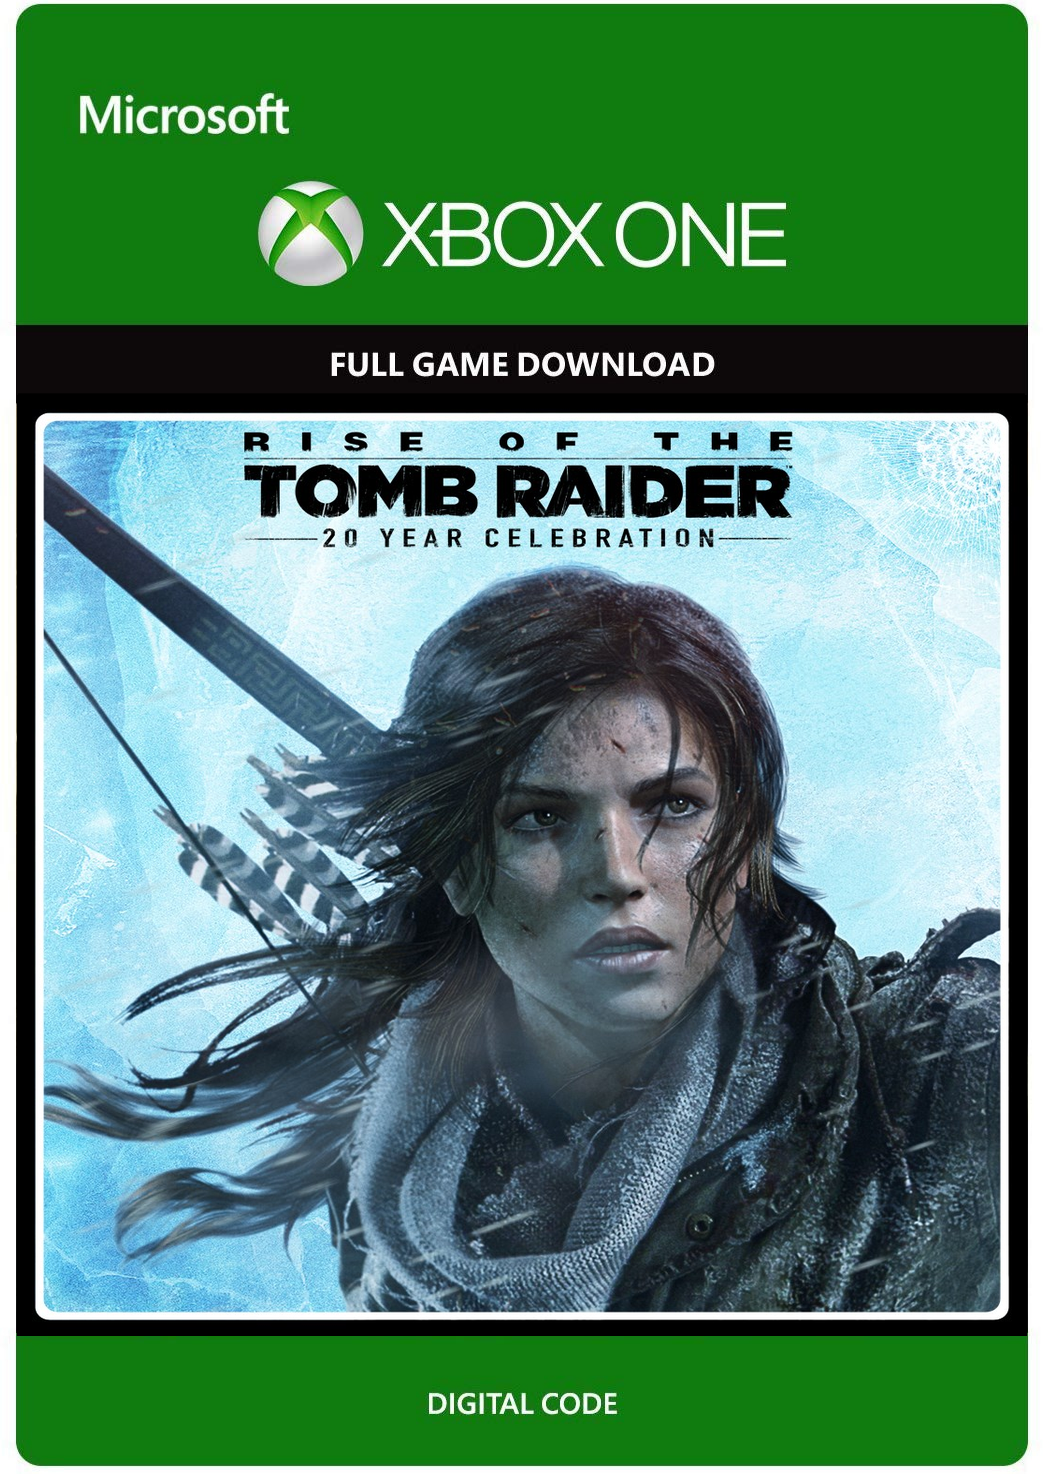
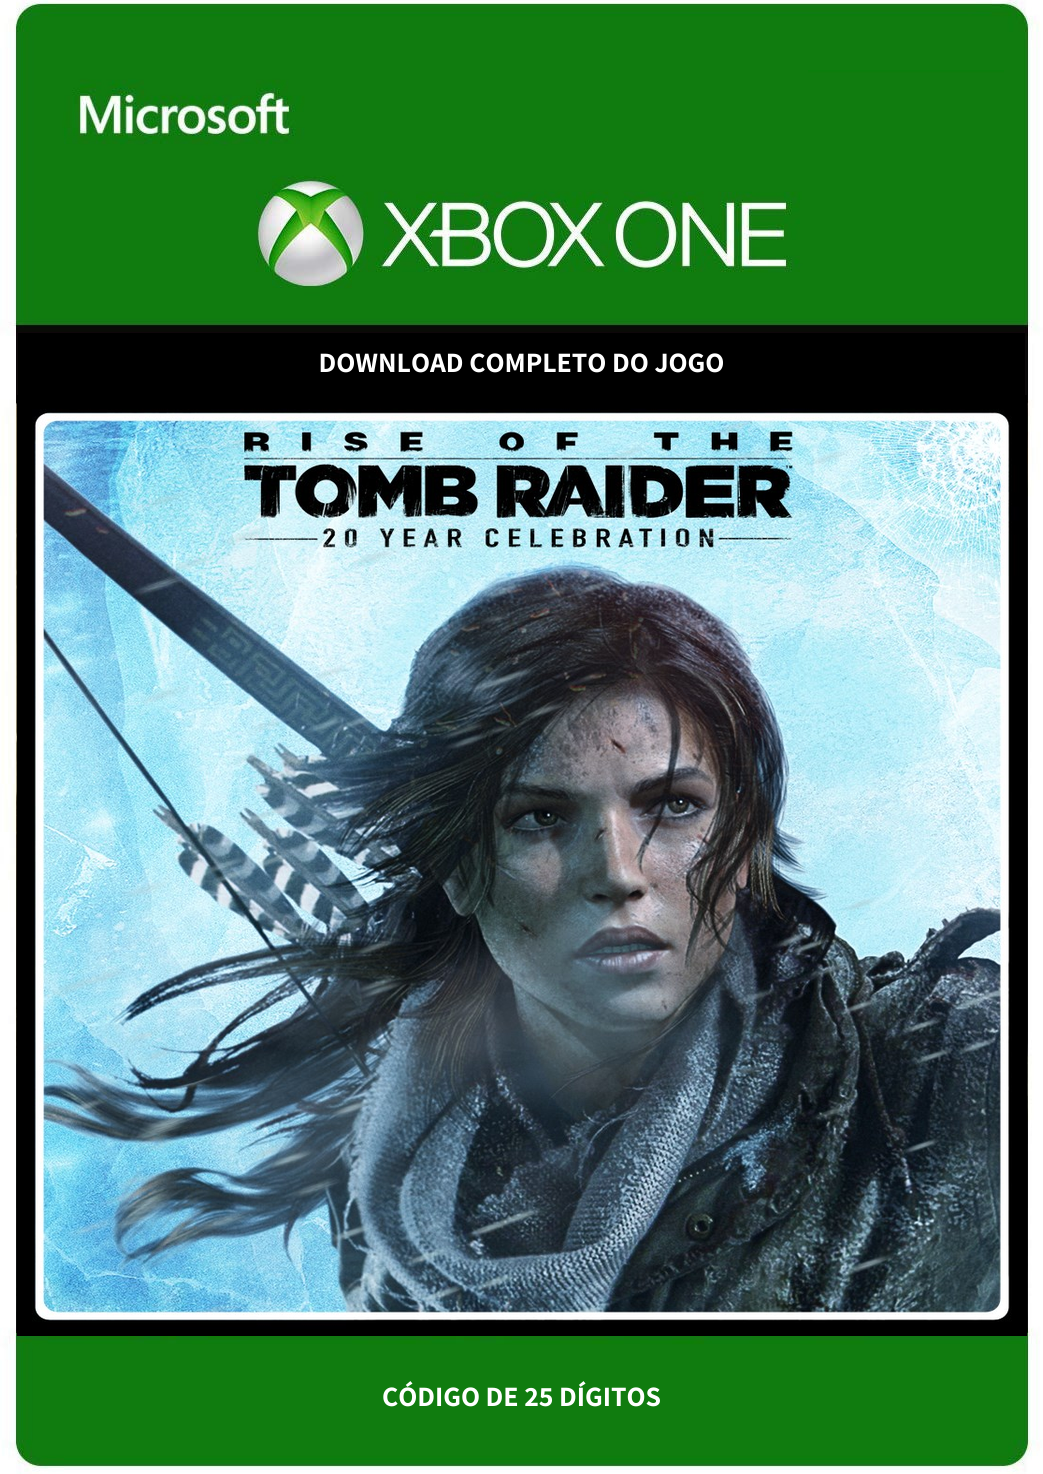
anuncio de jogo criado C4S60FPWF4XN

Changed region(s): [[0.3068, 0.2185, 0.7057, 0.2809], [0.3682, 0.9362, 0.6443, 0.9674]]

diff --git a/description/C4S60FPWF4XN.html b/description/C4S60FPWF4XN.html
@@ -1,17 +1,66 @@
 <p style="font-family: 'Poppins', sans-serif; font-size: 1rem; color:gray">
-    Rise of the Tomb Raider Aniversário De 20 Anos (Mídia Digital) Xbox One<br>
-    Publicado por :Microsoft<br>
-    Desenvolvido por :Crystal Dynamics<br>
-    Data de lançamento :11/10/2016<br>
-    Tamanho aproximado :61,03 GB<br>
-    Classificação etária :Para maiores de 16 anos<br>
-    Categoria :Ação e aventura<br>
-    <br>
-    Rise of the Tomb Raider: 20 Year Celebration inclui o aclamado Rise of the Tomb Raider, indicado para mais de 100 prêmios. Lara Croft é mais do que uma sobrevivente em sua primeira expedição como caçadora de tumbas, rumo às remotas regiões da Sibéria, em busca do segredo da imortalidade. <br>
-    <br>
-    Jogadores de Xbox One X podem escolher entre três modos visuais, incluindo 4K nativo para maior fidelidade de resolução, efeitos visuais melhorados para belíssimos aprimoramentos gráficos e alta taxa de quadros para a jogabilidade mais suave possível.<br>
-    <br>
-    Aprimoramentos técnicos adicionais para Xbox One X incluem suporte a exibição HDR, para uma representação de cores mais vibrante e precisa, suporte para áudio espacial, incluindo Dolby Atmos® para um verdadeiro áudio 3D, resolução aprimorada de texturas e suavização de bordas aprimorada para detalhes ainda mais imersivos e realistas. Aprimoramentos visuais adicionais incluem luzes volumétricas e reflexos aprimorados, folhagem aprimorada, detalhes poligonais melhorados e filtro de texturas amplificado.<br>
-    <br>
-    Rise of the Tomb Raider: 20 Year Celebration inclui o novo conteúdo adicional "Laços de Sangue", novo suporte cooperativo para o modo Endurance, opção de dificuldade "Sobrevivente Implacável" para a campanha principal, traje e arma da edição 20 Year Celebration e 5 skins clássicas para Lara. Inclui também todos os conteúdos para baixar já lançados como Baba Yaga: O Templo da Bruxa, Modo de Resistência, Escuridão Fria Despertada, 12 roupas, 7 armas e 35 cartas de expedição. Com mais de 50 horas de jogo, testa é a versão mais completa da premiada experiência.<br>
+<iframe width="440" height="210" src="https://www.youtube.com/embed/t1bX-epXbRw" title="YouTube video player" frameborder="0" allow="accelerometer; autoplay; clipboard-write; encrypted-media; gyroscope; picture-in-picture" allowfullscreen></iframe>
+<br>
+Rise of the Tomb Raider - Edição de Aniversário - Xbox One
+<br>Publicado por : Microsoft
+<br>Desenvolvido por : Crystal Dynamics
+<br>Data de lançamento : 11/10/2016
+<br>Tamanho aproximado : 9,96 GB
+<br>Classificação etária : Para maiores de 16 anos
+<br>Categoria : Ação e aventura
+<br>Recursos: Cooperação online  (2), HDR10, 4K Ultra HD, Xbox One X Aprimorado
+
+<br>Rise of the Tomb Raider: 20 Year Celebration inclui o aclamado Rise of the Tomb Raider, indicado para mais de 100 prêmios. Lara Croft é mais do que uma sobrevivente em sua primeira expedição como caçadora de tumbas, rumo às remotas regiões da Sibéria, em busca do segredo da imortalidade.  
+ 
+Jogadores de Xbox One X podem escolher entre três modos visuais, incluindo 4K nativo para maior fidelidade de resolução, efeitos visuais melhorados para belíssimos aprimoramentos gráficos e alta taxa de quadros para a jogabilidade mais suave possível. 
+ 
+Aprimoramentos técnicos adicionais para Xbox One X incluem suporte a exibição HDR, para uma representação de cores mais vibrante e precisa, suporte para áudio espacial, incluindo Dolby Atmos® para um verdadeiro áudio 3D, resolução aprimorada de texturas e suavização de bordas aprimorada para detalhes ainda mais imersivos e realistas. Aprimoramentos visuais adicionais incluem luzes volumétricas e reflexos aprimorados, folhagem aprimorada, detalhes poligonais melhorados e filtro de texturas amplificado. 
+ 
+Rise of the Tomb Raider: 20 Year Celebration inclui o novo conteúdo adicional "Laços de Sangue", novo suporte cooperativo para o modo Endurance, opção de dificuldade "Sobrevivente Implacável" para a campanha principal, traje e arma da edição 20 Year Celebration e 5 skins clássicas para Lara. Inclui também todos os conteúdos para baixar já lançados como Baba Yaga: O Templo da Bruxa, Modo de Resistência, Escuridão Fria Despertada, 12 roupas, 7 armas e 35 cartas de expedição. Com mais de 50 horas de jogo, testa é a versão mais completa da premiada experiência.<br>
+<br>
+Fonte: Microsoft<br>
+<br>
+<br>
+INFORMAÇÕES SOBRE O PRODUTO<br>
+===============================================<br>
+- É um código de 25 dígitos único, exclusivo, nunca utilizado, que vai lhe dá o direito de resgatar o Jogo via Download;<br>
+- Após o resgate você pode instalar/desinstalar/reinstalar/jogar quantas vezes quiser e quando quiser;<br>
+- É um produto digital não é um disco físico, ou seja, não existe envio por correios;<br>
+- Quando finalizar o pagamento entre em contato via whatsapp com informações para confirmação do pagamento e recebimento do código do seu jogo;<br>
+- Após resgatar o Jogo ele fica registrado permanentemente em sua conta, não poderá ser transferido para outra pessoa;<br>
+- É preciso ter uma conta microsoft previamente criada e internet para fazer o resgate e download do Jogo;<br>
+- O Serviço da Xbox Live precisa estar ativo no momento do resgate, consulte antes;<br>
+- Jogos que tem multiplayer online você vai precisar ter assinatura Xbox Live Gold para jogar e isso é vendido separadamente;<br>
+- Jogos que não possuem multiplayer você vai poder jogar conectado ou desconectado da internet, sem se preocupar com banimento;<br>
+- Qualquer dúvida ou dificuldade nós forneceremos TODO o suporte necessário, nós ligamos pra você se você achar necessário;<br>
+<br>
+<br>
+PARA RESGATAR O CÓDIGO DE 25 DÍGITOS PELO NAVEGADOR<br>
+===============================================<br>
+<br>
+- Acesse o site de resgate de jogos da microsoft logado com a conta microsoft que deseja resgatar o Jogo;<br>
+- Digite o código de 25 dígitos no campo solicitado e clique em AVANÇAR;<br>
+- Será exibido uma imagem do Jogo e clicando em CONFIRMAR o Jogo é resgatado na sua conta;<br>
+<br>
+<br>
+PARA RESGATAR O CÓDIGO DE 25 DÍGITOS NO VIDEOGAME<br>
+===============================================<br>
+<br>
+- Acesse o videogame usando a conta microsoft que deseja resgatar o Jogo;<br>
+- Vá até STORE e clique no botão USAR UM CÓDIGO;<br>
+- Digite o código de 25 dígitos no campo solicitado e clique em AVANÇAR;<br>
+- Será exibido uma imagem do Jogo e clicando em CONFIRMAR o Jogo é resgatado na sua conta;<br>
+<br>
+<br>
+POLÍTICA DE DEVOLUÇÃO E REEMBOLSO<br>
+===============================================<br>
+<br>
+- Todos os códigos dos produtos que comercializamos são 100% digitais, originais, únicos e exclusivos. Isso nós garantimos pra você!;<br>
+- Nós não temos o poder de inutilizar o código em caso de desistência e qualquer pessoa que tenha ciência do código pode realizar o resgate do jogo;<br>
+- Por estes motivos nós não podemos realizar a devolução e nem reembolso de um produto digital;<br>
+- Antes de realizar a sua compra, nós recomendamos que tenha certeza de que o produto que esta comprando é o que realmente deseja;<br>
+- Recomendamos que antes de comprar consulte o video que disponibilizamos no anúncio, opinião de amigos ou opinião especializada;<br>
+- Realizando o pagamento via pix você concorda com todos os termos aqui descritos.<br>
+<br>
+<br>
 </p>

diff --git a/loja.html b/loja.html
@@ -214,7 +214,7 @@
                             <input type="hidden" id="CODIGO_C4S60FPWF4XN" value="C4S60FPWF4XN">
                             <img src="img/produtos/C4S60FPWF4XN.png" alt="" width="200" height="100">
                             <h5 id="JOGO_C4S60FPWF4XN">Rise Of The Tomb Raider 20 Anos - Xbox One</h5>
-                            <h6 id="VALOR_C4S60FPWF4XN"><span style="color:green">R$ 115,00</span></h6>
+                            <h6 id="VALOR_C4S60FPWF4XN"><span style="color:green">R$ 156,00</span></h6>
                             <a href="#" id="comprar" class="btn fancy-btn fancy-dark" data-toggle="modal" data-target="#myModal" onclick="confirm(CODIGO_C4S60FPWF4XN.value,JOGO_C4S60FPWF4XN.innerText,VALOR_C4S60FPWF4XN.innerText)">Comprar</a>
                         </center>
                     </div>
